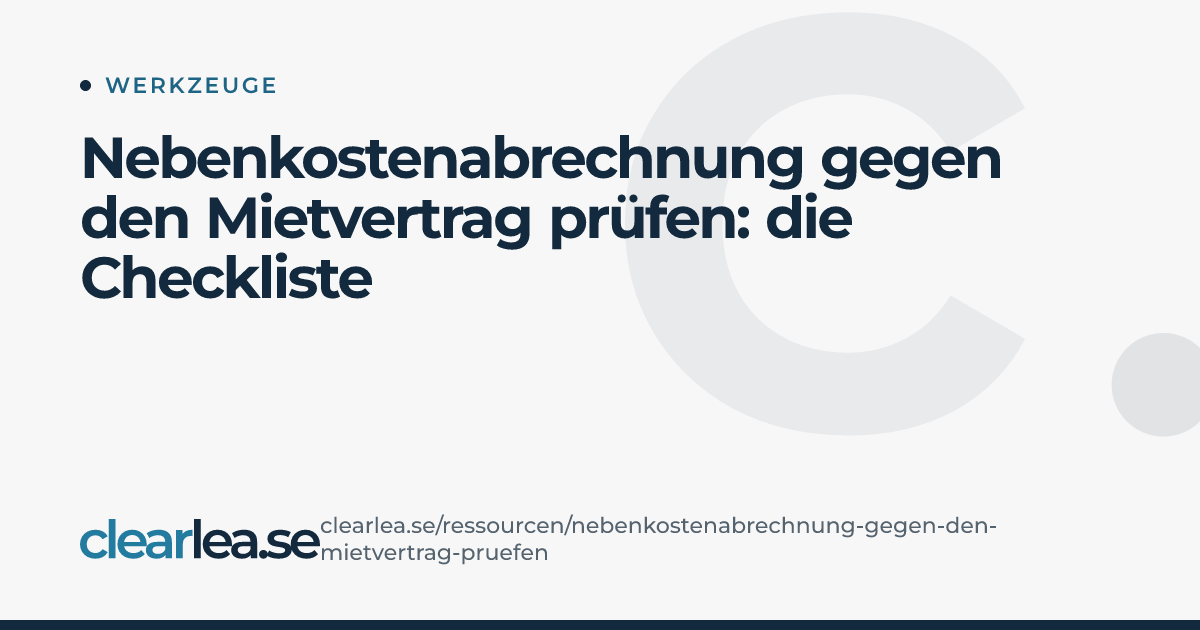
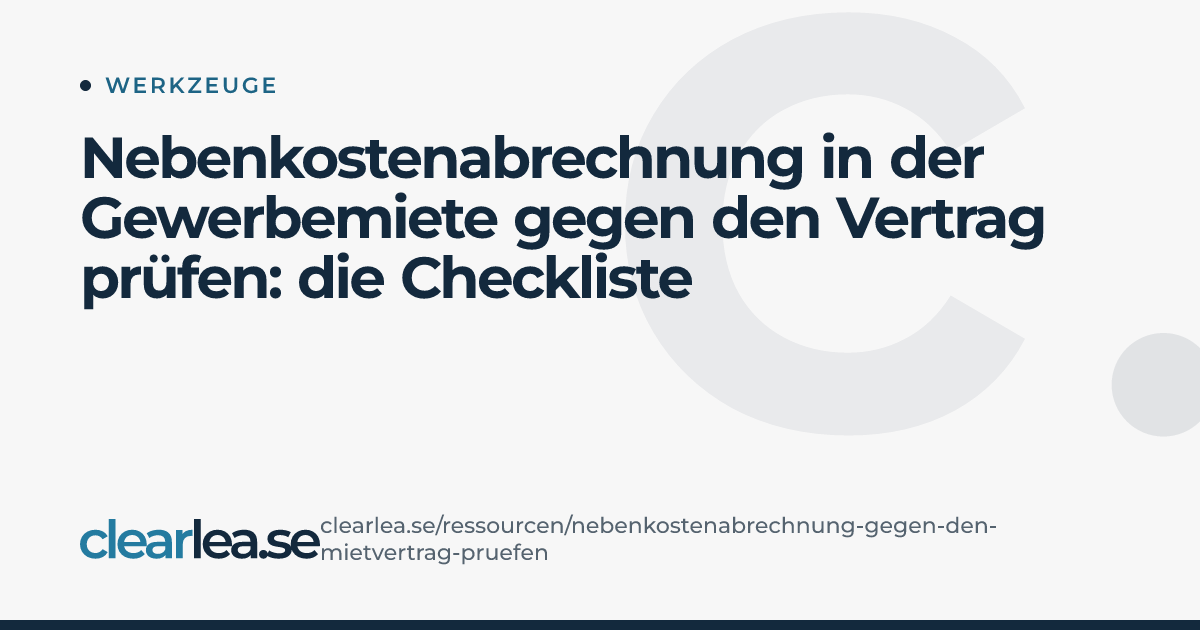
content: Nebenkosten article title with Gewerbemiete, date set to the live day (5 Nov)

Changed region(s): [[0.0617, 0.2111, 0.8942, 0.4825]]

diff --git a/src/content/ressourcen/de/12-nebenkostenabrechnung-gegen-den-mietvertrag-pruefen.md b/src/content/ressourcen/de/12-nebenkostenabrechnung-gegen-den-mietvertrag-pruefen.md
@@ -1,10 +1,10 @@
 ---
 cat: "Werkzeuge"
-title: "Nebenkostenabrechnung gegen den Mietvertrag prüfen: die Checkliste"
+title: "Nebenkostenabrechnung in der Gewerbemiete gegen den Vertrag prüfen: die Checkliste"
 text: "Was umgelegt werden darf, steht im Mietvertrag. Die Checkliste für Vermieter und Mieter, mit allen Nachträgen."
 neu: true
 href: "Loesungen-Bestandshalter.dc.html"
-date: "2026-11-09"
+date: "2026-11-05"
 image: "/media/ressourcen/nebenkosten-checkliste.png"
 imageAlt: "Eine Zeile Grundsteuer aus der Nebenkostenabrechnung, verbunden mit der passenden Klausel aus Nachtrag 2, § 6, und dem Vermerk „Im Vertrag vereinbart“ (Beispieldaten)"
 ---

diff --git a/src/content/ressourcen/en/12-check-service-charge-statement-against-lease.md b/src/content/ressourcen/en/12-check-service-charge-statement-against-lease.md
@@ -4,7 +4,7 @@ title: "Checking a service charge statement against the lease: the checklist"
 text: "What can be passed on is set by the lease. The checklist for landlords and tenants, with all amendments."
 neu: true
 href: "Loesungen-Bestandshalter.dc.html"
-date: "2026-11-09"
+date: "2026-11-05"
 image: "/media/ressourcen/nebenkosten-checkliste.png"
 imageAlt: "A property tax line from a service charge statement, linked to the matching clause in amendment 2, § 6, marked as agreed in the lease (sample data)"
 ---
